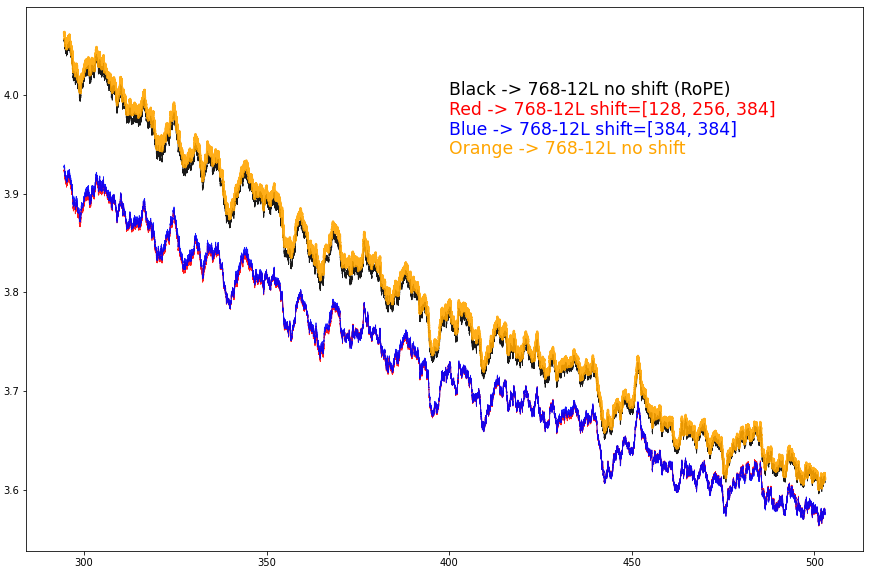
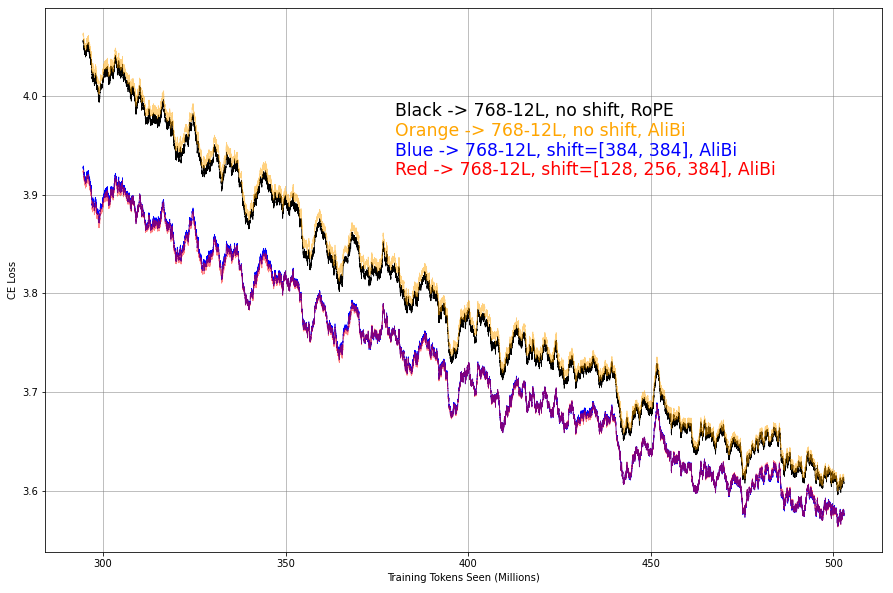
update readme

diff --git a/experiments/README.md b/experiments/README.md
@@ -59,11 +59,11 @@ Below are the loss ratios (averaged over the last 10M tokens) of tokens that sta
 | Green  | <b>1.3297</b>  | None
 | Purple  | 1.3336  | [128, 384, 512]
 
-The two lowest loss ratios are for the two models that did not use token shifting, <b>implying that token shifting improves sub-word accuracy more than it improves the accuracy of tokens that start a new word.</b> This intuitively makes sense because token shifting allows the model to incorporate information from near-by tokens via a mechanism that is completely separate from attention. And near-by information is plausibly more important for sub-word tokens than for tokens that start off a new word.
+The two lowest loss ratios are for the two models that did not use token shifting, <b>implying that token shifting improves sub-word accuracy more than it improves the accuracy of tokens that start a new word.</b> This intuitively makes sense because token shifting allows the model to incorporate information from near-by tokens via a mechanism that is completely separate from attention. And near-by information is presumably more important for sub-word tokens than for tokens that start off a new word.
 
-## Token Shifting w/ Alibi
+## Token Shifting w/ AliBi
 
-Similar to the previous section, we will investigate various token shifting configurations while using the Alibi positional encoding strategy. Alibi is a new position encoding technique that is very simple, intuitive, and is reported to perform on par with RoPE. We use Alibi's default parameters unless stated otherwise.
+Similar to the previous section, we will investigate various token shifting configurations while using the [AliBi positional encoding strategy](https://arxiv.org/abs/2108.12409). AliBi is a new position encoding technique that is very simple, intuitive, and is reported to perform on par with RoPE. We use AliBi's default parameters unless stated otherwise.
 
 <img src="https://github.com/muddyrains/muddy-nets/blob/main/experiments/images/768_shifting_alibi.PNG">
 
